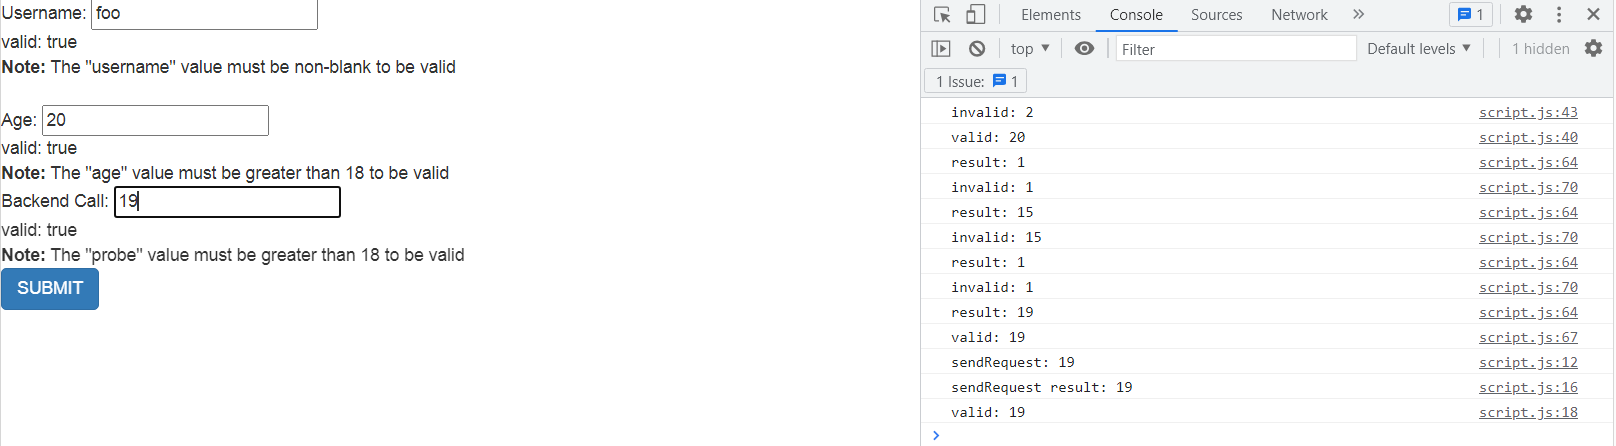
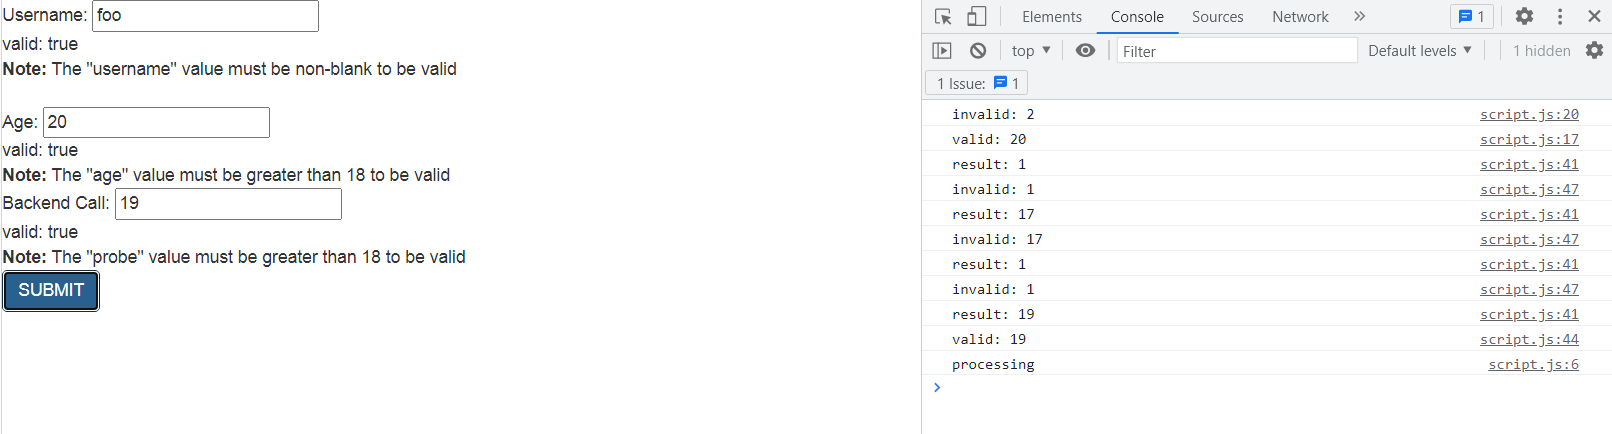
intermeidat revision - removed unneeded custom "$scope" "validationStatus" prop  and "ng-change" handler

diff --git a/basic-angularjs-validation/src/main/resources/static/js/script.js b/basic-angularjs-validation/src/main/resources/static/js/script.js
@@ -2,34 +2,10 @@ var app = angular.module('developapp', []);
 
 app.controller('formcontroller', function($scope, $http) {
     $scope.url = 'http://192.168.0.25:8080/json';
-    $scope.validationStatus = false;
     $scope.update = function() {
-        console.log($scope.validationStatus);
-    }
-
-    $scope.sendRequest = function() {
-        var value = $scope.probe;
-        console.log('sendRequest: ' + value);
-        $http.get($scope.url + '/' + value).then(function(response) {
-            // console.log('sendRequest response: '+ JSON.stringify(response));
-            var result = parseInt(response.data.name, 10);
-            console.log('sendRequest result: ' + result);
-            if (result >= 18) {
-                console.log('valid: ' + result);
-                // NOTE: failing to set validity this way                       
-                // $scope.form2.probe.$setValidity('charE', true);
-                $scope.validationStatus = true;
-            } else {
-                console.log('invalid: ' + result);
-                $scope.validationStatus = false;
-                // $scope.form2.probe.$setValidity('charE', false);
-            }
-        }, function(reason) {
-            console.log(reason);
-        });
+        console.log('processing');
     }
 });
-
 
 app.directive('ageValidationDirective', function() {
     return {

diff --git a/basic-angularjs-validation/src/main/resources/static/input-validation.html b/basic-angularjs-validation/src/main/resources/static/input-validation.html
@@ -26,7 +26,7 @@ Age:
 <div><b>Note:</b> The "age" value must be greater than 18 to be valid </div>
 Backend Call:
 <!-- NOTE: do not use "param" for name attribute -->
-<input name="probe" ng-model="probe" required probe-validation-directive ng-change="sendRequest();">
+<input name="probe" ng-model="probe" required probe-validation-directive>
 
 <div>valid: {{form2.probe.$valid}}</div>
 <div><b>Note:</b> The "probe" value must be greater than 18 to be valid </div>

diff --git a/basic-angularjs-validation/README.md b/basic-angularjs-validation/README.md
@@ -2,7 +2,7 @@
 
 Static Spring boot Application hosting a basic AngularJS
 
-custom form input validation example taken from __AngularJS Form Validation__ [article](https://www.geeksforgeeks.org/angularjs-form-validation/)
+custom form input validation example taken from __AngularJS Form Validation__ [article](https://www.geeksforgeeks.org/angularjs-form-validation/). It does default `required` atteribute validation on first input, the local Javascript function validation on the second input, toggling the `$valid` property of the input and of the form through `$parsers`, and does a remote rest call to validate the third input, also togling the similar propery but through updating the `$asyncValidators` depednency injected propery.
 
 ![Page](https://github.com/sergueik/springboot_study/blob/master/basic-angularjs-validation/screenshots/capture-page.png)
 
@@ -88,7 +88,8 @@ TypeError: Converting circular structure to JSON
   * https://www.w3schools.com/angular/ng_ng-change.asp
   * https://stackoverflow.com/questions/30947808/how-to-get-the-value-of-a-field-with-ng-change
   * https://stackoverflow.com/questions/27923529/asyncvalidators-angular
-  * https://docs.angularjs.org/api/ng/type/ngModel.NgModelController#$asyncValidators (a full readingis required)
+  * `$asyncValidators` [angularjs documentation](https://docs.angularjs.org/api/ng/type/ngModel.NgModelController#$asyncValidators) (a full reading is required)
+  * `$parsers` [angularjs documentation](https://docs.angularjs.org/api/ng/type/ngModel.NgModelController#$parsers) (a full reading is required)
 
 ### Author
 
